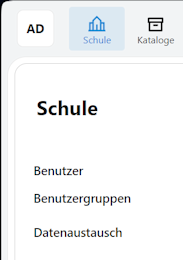
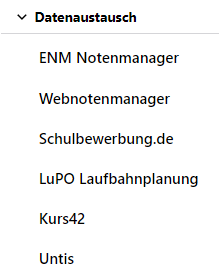
Übersicht "Schule" erstellt; Screenshot aktualisiert.

diff --git a/client/schule/index.md b/client/schule/index.md
@@ -3,9 +3,11 @@
 ## Stammdaten und Kontaktinformationen
 In der Übersicht **Schule** werden allgemeine Angaben zur Schule aufgenommen.
 
+Zuerst wird der Katalog **Stammdaten der Schule** als Übersicht angezeigt.
+
 ![Allgemeine Daten zur Schule](./graphics/SVWS_schule_übersicht.png "Es werden allgemeine Einstellungen zur Schule angezeigt und vorgenommen.")
 
-Oben werden Name und Schulnummer angezeigt, darunter lassen sich die **Stammdaten** mit den drei Bezeichungen zur Schule wie auch die Adresse und andere Kontaktdaten angeben.
+Direkt oben auf der Seite werden Name und Schulnummer angezeigt, darunter lassen sich die **Stammdaten** mit den drei Bezeichungen zur Schule wie auch die Adresse und andere **Kontaktdaten** angeben.
 
 ## E-Mail-Server
 
@@ -13,16 +15,19 @@ Geben Sie grundlegende Daten zur Verwendung eines SMTP-Mailservers zur Versendun
 
 Die konkreten Anmeldedaten werden in der Schaltfläche **Aktueller Benutzer** oben links in der Kopfzeile bezogen auf eben den aktuellen Nutzer eingegeben.
 
-## Weitere Untermenüs
+## Katalogübersicht
+
+Es folgt die Katalogübersicht, in der die **Schulbezogenen Kataloge** und die **Allgemeinen Kataloge** aufgeführt werden.
+
+In der zweite Kategorie finden sich alle Kataloge, die nicht mit der konkreten Schule und ihrer jeweiligen Gestaltung zu zun haben. Beispielsweise wären das die existierenden Religionen oder Schulen in NRW - inklusive für die Schulnummern für diverse Ausnahmen wie "Schulen aus dem Ausland".
+
+## Datenaustausch
+
+Es folgt das Menü zum **Datenaustausch**, also die Daten, die über den SVWS-Client in den SVWS-Server importiert und exportiert werden können. 
 
 ![Weitere Unterpunkte im Bereich "Schule"](./graphics/SVWS_schule_datenaustausch.png "Rufen Sie weitere Untermenüs auf, die für die Verwaltung der Datenbank relevant sind.")
 
-Über die linke Auswahlspalte sind von hier die Verwaltung für die **Benutzer** und ihre **Benutzergruppen** zu erreichen, mit denen die Recht der einzelnen Benutzer gesteirt werden.
-
-Weiterhin ist hier der Bereich **Datenaustausch** zu öffnen, über den Exporte und Importe von und an Software oder Dateien ermöglicht wird.
-
-**TODO**
-
+Hier werden die supporten Programme und Formate direkt angezeigt.
 
 
 
